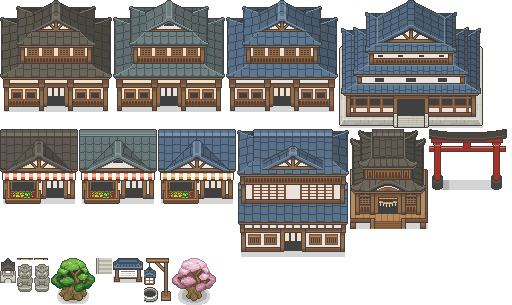
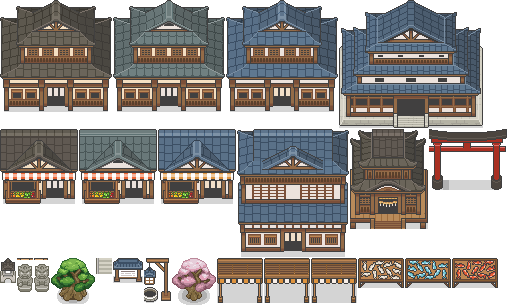
Mercado de pescado de VectoRaith: puestos con toldo para el mercado nocturno, secadero y cajones de pescado en el muelle

Changed region(s): [[0.4062, 0.8262, 1.0, 1.0]]

diff --git a/src/data/props.ts b/src/data/props.ts
@@ -122,6 +122,10 @@ export const PROPS: Record<string, PropDef> = {
   planter_white: P('flowers', 2, 1, 32, 15, '#f6f3ee', '#ffffff', { sombra: 'contacto' }),
   // harbour and market (wharf_* may stand on the deck and the market paths); gulls never block the way
   wharf_barrel: P('barrel', 1, 1, 15, 26),
+  // fish market pieces (VectoRaith): a drying rack and crates of fish on the quay
+  wharf_fish_rack: P('crate', 3, 1, 46, 30, '#a0704a'),
+  wharf_fish_crate_b: P('crate', 3, 1, 46, 30, '#6f8fb8'),
+  wharf_fish_crate_r: P('crate', 3, 1, 46, 30, '#b8524f'),
   wharf_boxes: P('crate', 2, 1, 32, 36),
   wharf_box: P('crate', 1, 1, 16, 21),
   wharf_bench: P('bench', 2, 1, 32, 16, '#b07a4c'),

diff --git a/src/data/villageTerrain.ts b/src/data/villageTerrain.ts
@@ -252,6 +252,8 @@ export function createVillageTerrain() {
     prop('wharf_flower_box', 60, 68); prop('wharf_bench', 64, 68);
     prop('wharf_boxes', 75, 68); prop('wharf_box', 77, 68); prop('wharf_barrel', 78, 68);
     prop('wharf_bench', 86, 68);
+    // the fishermen's quay: fish drying in front of the fish houses, crates of the day's catch beside them
+    prop('wharf_fish_rack', 80, 66); prop('wharf_fish_crate_b', 84, 66); prop('wharf_fish_crate_r', 45, 67);
   }
   // lanterns stand at the rail on both sides of each pier's mouth and by the lighthouse door, never mid-deck
   for (const [x, y] of [[54, 68], [58, 68], [68, 68], [72, 68], [82, 68], [97, 75]]) prop('lantern_cream', x, y);

diff --git a/scripts/build-japanese-buildings.py b/scripts/build-japanese-buildings.py
@@ -78,6 +78,14 @@ piece('stairs', 'Escalón de piedra', ['stonestairs'], (16, 144, 16, 16))
 piece('board', 'Tablero de anuncios', ['board'], (96, 290, 32, 30))
 piece('well', 'Pozo', ['well'], (98, 320, 30, 48))
 piece('sakura', 'Cerezo', ['sakura'], (720, 1169, 48, 47))
+# The fish market sheet: small awning stalls (one per roof colour) for the market's stalls, and the harbour's fish
+# drying rack and crates of fish.
+piece('stall_blue', 'Puesto con toldo (azul)', ['stall_night', 'stall_rose'], (128, 1648, 48, 48))
+piece('stall_brown', 'Puesto con toldo (marrón)', ['stall_gold'], (128 + BROWN, 1648, 48, 48))
+piece('stall_green', 'Puesto con toldo (verde)', ['stall_sage'], (128 + GREEN, 1648, 48, 48))
+piece('fish_rack', 'Secadero de pescado', ['wharf_fish_rack'], (208, 1696, 48, 32))
+piece('fish_crate_blue', 'Cajón de pescado azul', ['wharf_fish_crate_b'], (208, 1632, 48, 32))
+piece('fish_crate_red', 'Cajón de pescado rojo', ['wharf_fish_crate_r'], (208, 1760, 48, 32))
 
 # Shelf packing, one facade per slot.
 W = 512
